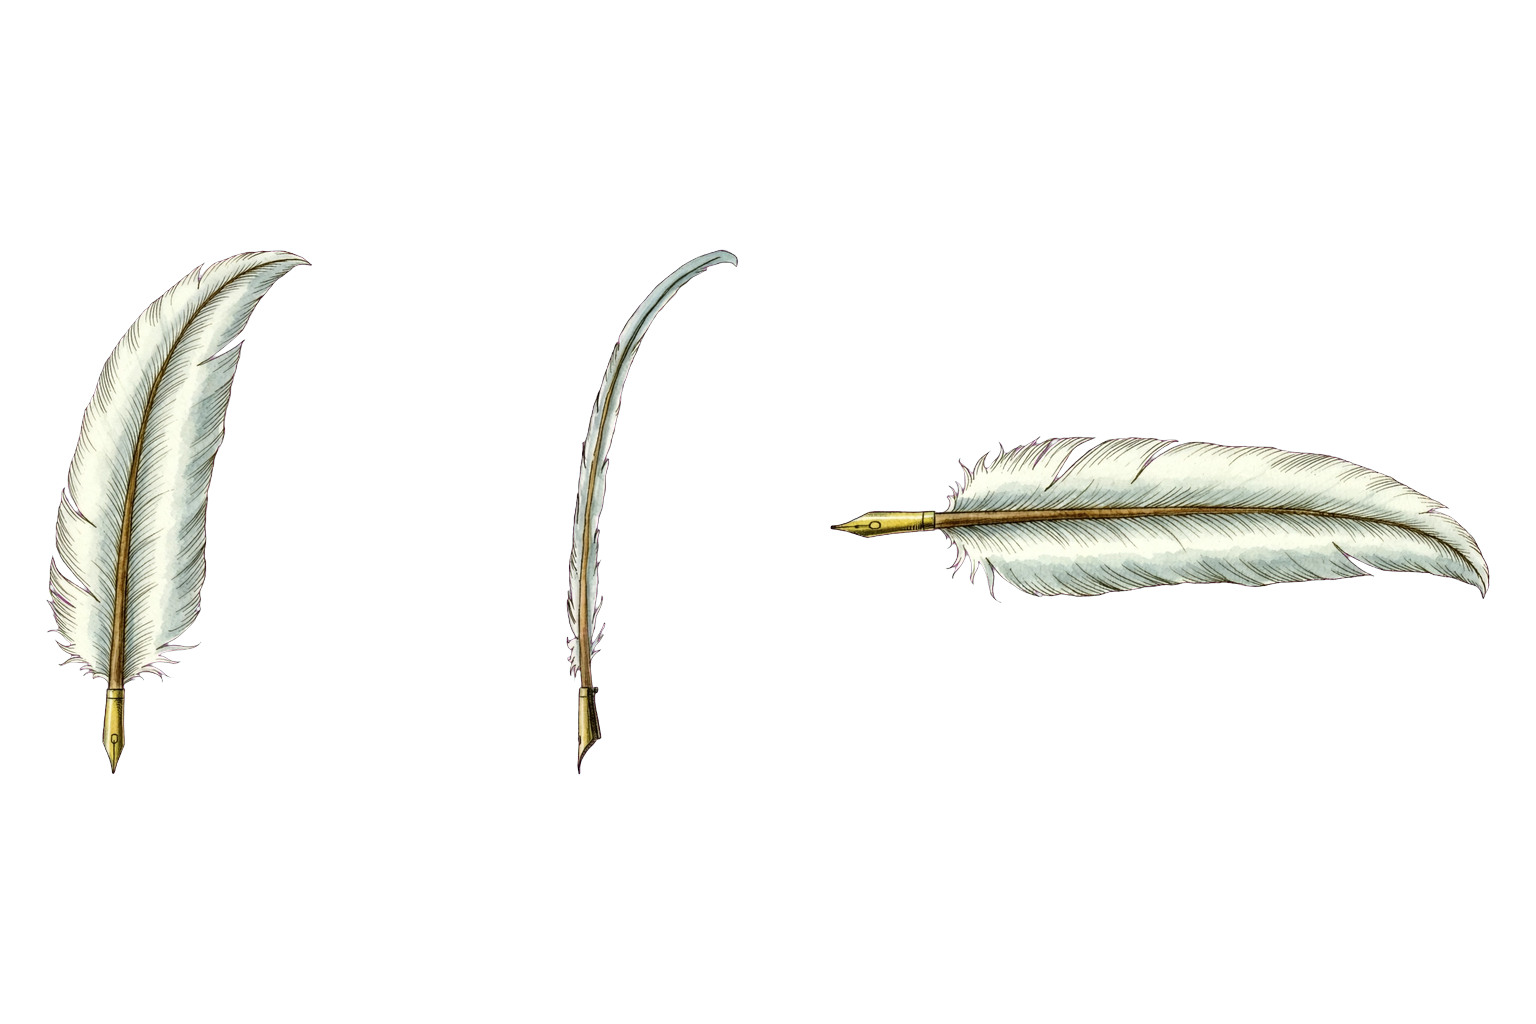
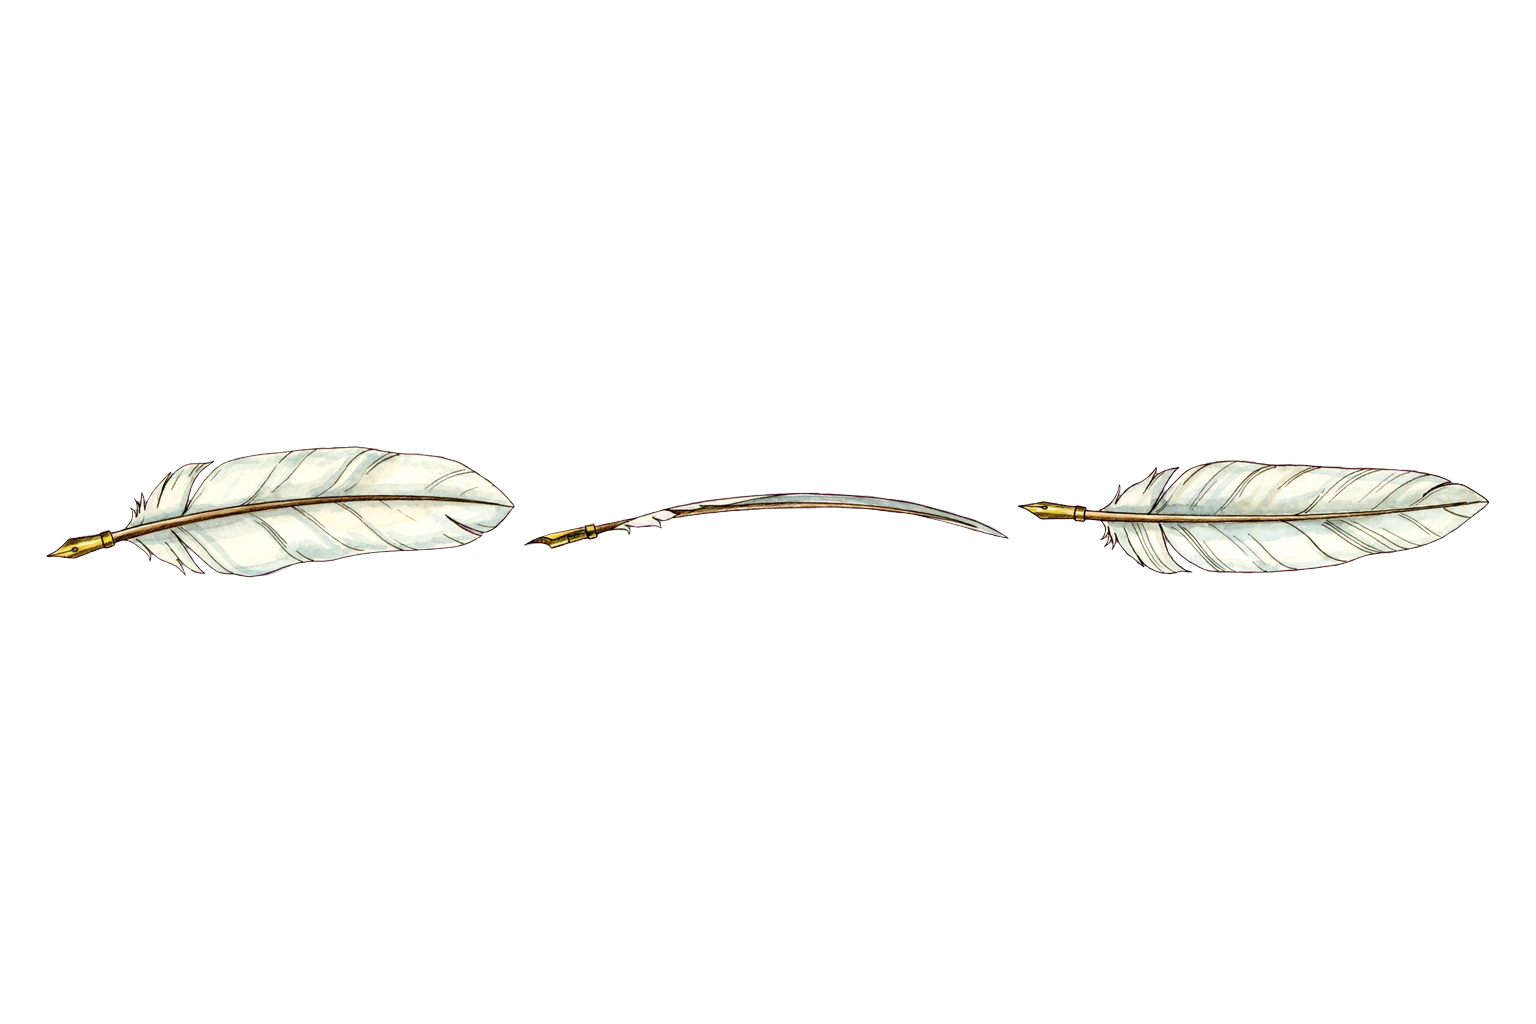
小物の三面図4枚(羽ペン・懐中時計・ランプ・本)を受領・検証
Claude-Session: https://claude.ai/code/session_01NNF75WtqSrNc5QxPaYtfZJ

Changed region(s): [[0.0312, 0.2188, 0.9688, 0.75], [0.4375, 0.25, 0.4688, 0.2812]]

diff --git a/docs/apps/sekai-hex/design/STATE.md b/docs/apps/sekai-hex/design/STATE.md
@@ -46,6 +46,7 @@
 - 【確定 11-25 07:47 ユーザー】進め方=先に見本(参考の絵)を取ってきて方向を決め、こちらの手法で進める。最初は「飾り」(g-deco)から。見本はユーザーが取ってくる。見本は貼らず・なぞらず、特徴を言葉にして使う。
 - 【評価 11-25 22:57 検証(飾りの見本・Drive「参考の絵/世界地図の飾り」27枚)】見本は共通して「机の上に羊皮紙の地図を置き、周りに小物(羽ペン・インク壺・コンパス・巻物・ろうそく/ランプ・本・蝋封)を暖色の光で配置」。小物ごとの見本あり。特に使えそう: 余白のある羊皮紙+小物の囲み(白背景の1枚)・地図が中央で小物が縁にある机の全景(2枚)。注意: ①写真風・ゲーム絵で、墨と塗りの地図と画風が合わない ②光が暗い蝋燭光で、確定の「光は左斜め上」と違う ③透かし入りの素材集(商用)が混ざる=貼らず・なぞらず特徴だけ使う ④無関係の看板写真1枚(使わない)。案: A=羊皮紙の縁に小物を重ねる(軽い) B=机の上の絵の中に3D地図を窓として置く(重い)。ユーザー判断待ち。
 - 【確定 11-25 23:29 ユーザー】見本はあくまで見本。雰囲気を出すために小物(アイテム)を使う。灯りは、ただの光ではなく蝋燭・燭台・ランプの灯などの小物で出す。光の当たり方は地図にそのまま合わせなくてよい(テレビのように周りの光と無関係に地図が淡く光る表現もよい)。この方向で小物を考える。【訂正】11-25 22:57の評価の注意②「光が暗い蝋燭光で『光は左斜め上』と違う」は不要(見本の光は地図に合わせない)。
+- 【評価 11-25 23:35 検証(小物の三面図4枚・MUSE)】届いた: 羽ペン(描き直し)・懐中時計・ランプ・本。透明PNG(背景は透明。チャットでは黒く見える)。実測の高さ: 時計 正面471・側面471・裏416(輪っかが裏にない)/ランプ 正面896・側面892(真上は円で457幅)/本 正面≒側面≒750で3図の高さがそろう。羽ペンは3図とも長さがほぼそろった(左右が同じ向きの図で、正面・側面・真上の型ではない)。目視: 水彩+墨線の統一した画風で、前回の羽ペンの不一致は解消。ランプは中にろうそく入りの灯り小物として使える。限界: ポリゴン化(組み込み)はまだ・iPhoneでの軽さ未確認・燭台と蝋封と巻物は未発注。保存: mapstyle/gv/deco/(旧羽ペンは quill_3view_v1_rejected.png)。
 - 【確定 11-24 05:30】**水の高さ(海・湖・川の水面と底)は、交通網と天候のシミュレーターの仕事**。地図(絵+ローポリ)は水の高さを持たない。水と海の実装は難しい。(05:02の『海底と海の面は同時に持つ。湖・川も同じ』は、シミュレーター側のデータの話に置き換え。)
 - 【確定】**小手先の修正は禁止**。仕様どおりにできない不都合があれば、直さず報告する。仕様に書かれていないことは、質問する(推測で足さない)。作り方を無断で変えない。
 - 【訂正 11-24 05:17】04:49 に私が足していた『縁は絵の海岸線ただ一つ』『海も陸と同じ一枚のローポリ』『川は絵に入れる』等は、ユーザーの言葉でなく私の解釈だったので、上の確定の形に直した。

diff --git a/docs/apps/sekai-hex/design/rag/ファンタジー地図に足す要素.md b/docs/apps/sekai-hex/design/rag/ファンタジー地図に足す要素.md
@@ -7,6 +7,7 @@
 ## 今
 - 出典資料: mapelements.html(Tor・Fantastic Maps)。
 - [今 11-25 06:15] 新しい今「世界地図の見せ方の飾り」を作って試行錯誤中
+- [評 11-25 23:35] 小物の三面図が届いた: 方位・縮尺・インク壺・羽ペン(描き直し)・懐中時計・ランプ・本(透明PNG・画風統一・3図の大きさほぼそろう)。未: 燭台・蝋封・巻物。次=ポリゴン化して試作ページへ(未着手)。保存 mapstyle/gv/deco/。
 - [確 11-25 23:29] 見本は見本。雰囲気づくりは小物(蝋燭・燭台・ランプの灯など)で出す。光の当たり方は地図に合わせなくてよい(周りの光と無関係に地図が淡く光る表現もよい)。この方向で小物を考える。
 - [評 11-25 22:57] 飾りの見本27枚(Drive「参考の絵/世界地図の飾り」)=机の上の羊皮紙の地図+周りの小物(羽ペン・インク壺・コンパス・巻物・ろうそく/ランプ・本・蝋封)。方向案: A=羊皮紙の縁に小物を重ねる(軽い)/B=机の上の絵の中に3D地図を窓として置く(重い)。注意: 画風が写真風で地図と合わない・透かし入り素材は特徴のみ使う。未決(ユーザー判断待ち)。
 - [確 11-25 07:47] 飾りは、先にユーザーが見本の絵を取ってきて方向を決め、こちらの手法で進める。見本は貼らず・なぞらず特徴を言葉にして使う。
